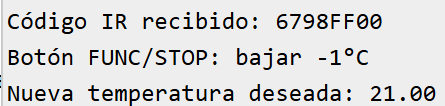
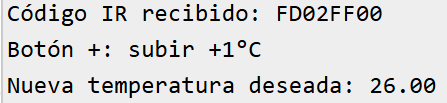
correcion ejemplo IR

diff --git a/scripts/ComunicacionIR.cpp b/scripts/ComunicacionIR.cpp
@@ -19,7 +19,7 @@ void loopComunicacionIR() {
 
     switch (valor) {
       case 0xFD02FF00:  // Botón signo +
-        Serial.println("Botón POWER: subir +1°C");
+        Serial.println("Botón +: subir +1°C");
         if (tempDeseada < 35.0) {
           tempDeseada += 1.0;
           Serial.print("Nueva temperatura deseada: ");
@@ -28,7 +28,7 @@ void loopComunicacionIR() {
         break;
 
       case 0x6798FF00:  // Botón signo -
-        Serial.println("Botón FUNC/STOP: bajar -1°C");
+        Serial.println("Botón -: bajar -1°C");
         if (tempDeseada > 15.0) {
           tempDeseada -= 1.0;
           Serial.print("Nueva temperatura deseada: ");
